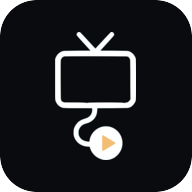
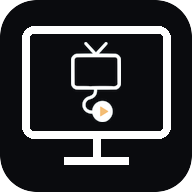
feat: name the TV apps "Cablegram TV"
Distinguish the TV app from the phone app across launchers, app lists and stores:
- Android TV launcher label set to Cablegram TV
- Android TV adaptive icon updated with TV screen frame and short stand; legacy icons and banner regenerated
- webOS & Tizen manifests and page titles updated to Cablegram TV, along with TV icon variants
- Android and iOS phone copy updated to refer to Cablegram TV for TV install and launch steps across all locales
- Web remote and TV command senders synchronized to reference Cablegram TV

Changed region(s): [[0.0938, 0.125, 0.9062, 0.875]]

diff --git a/apps/ios-phone/Packages/CablegramCore/Sources/CablegramCore/Pairing/TvCommandSender.swift b/apps/ios-phone/Packages/CablegramCore/Sources/CablegramCore/Pairing/TvCommandSender.swift
@@ -35,7 +35,7 @@ public enum TvCommandSender {
         // A TV without Cablegram open can't take a title: when it opens it shows "Who's watching?", and a title is never kept for a
         // profile chosen later. Say so now instead of waiting on it. Only from a fresh list, never the cache.
         if titleStart && target.offline {
-            return .failed("\(target.name) isn't on. Open Cablegram on it, choose who's watching, then try again.")
+            return .failed("\(target.name) isn't on. Open Cablegram TV on it, choose who's watching, then try again.")
         }
         switch await client.postCommand(token: token, command: command, videoId: videoId, targetDeviceId: target.deviceId, arguments: arguments) {
         case .accepted(let id):

diff --git a/apps/android-phone/src/main/java/app/cablegram/phone/CastSession.kt b/apps/android-phone/src/main/java/app/cablegram/phone/CastSession.kt
@@ -67,7 +67,7 @@ object CastSession {
         // A TV without Cablegram open can't take a title: when it opens it shows "Who's watching?", and a title is never
         // kept for a profile chosen later. Say so now instead of waiting on it. Only from a fresh list, never the cache.
         if (titleStart && target.offline) {
-            return Result.Failed("${target.name} isn't on. Open Cablegram on it, choose who's watching, then try again.")
+            return Result.Failed("${target.name} isn't on. Open Cablegram TV on it, choose who's watching, then try again.")
         }
         return when (val sent = client.postCommand(token, command, videoId, target.deviceId, arguments)) {
             is CommandSend.Accepted -> {

diff --git a/apps/web-remote/src/app.js b/apps/web-remote/src/app.js
@@ -913,7 +913,7 @@ function tvsView() {
       icon("tv"), h("span", { class: "grow" }, t.display_name || "TV"),
       h("button", { class: "small", "aria-label": `Rename ${t.display_name || "TV"}`, onclick: () => renameTv(t) }, "Rename")))) : null,
     h("h2", {}, state.tvs.length ? "Add a TV" : "Pair your TV"),
-    h("p", {}, "Open Cablegram on your TV. It shows a 6-digit code: enter it here."),
+    h("p", {}, "Open Cablegram TV on your TV. It shows a 6-digit code: enter it here."),
     pairForm(),
     h("div", { id: "telegram" }, telegramHelp()),
     h("h2", {}, "Account"),

diff --git a/apps/tv-web/index.html b/apps/tv-web/index.html
@@ -3,7 +3,7 @@
 <head>
   <meta charset="utf-8">
   <meta name="viewport" content="width=1920, initial-scale=1">
-  <title>Cablegram</title>
+  <title>Cablegram TV</title>
 </head>
 <body>
   <div id="app"><div style="padding:80px 112px;color:#9da1ab;font:36px sans-serif">Opening Cablegram…</div></div>

diff --git a/apps/tv-web/platforms/webos-hosted/index.html b/apps/tv-web/platforms/webos-hosted/index.html
@@ -1,6 +1,6 @@
 <!doctype html>
 <meta charset="utf-8">
-<title>Cablegram</title>
+<title>Cablegram TV</title>
 <body style="margin:0;background:#000;color:#fff;font:32px sans-serif">
 <p style="padding:48px">Loading Cablegram…</p>
 <script>location.replace("https://tv.cablegram.app/");</script>
